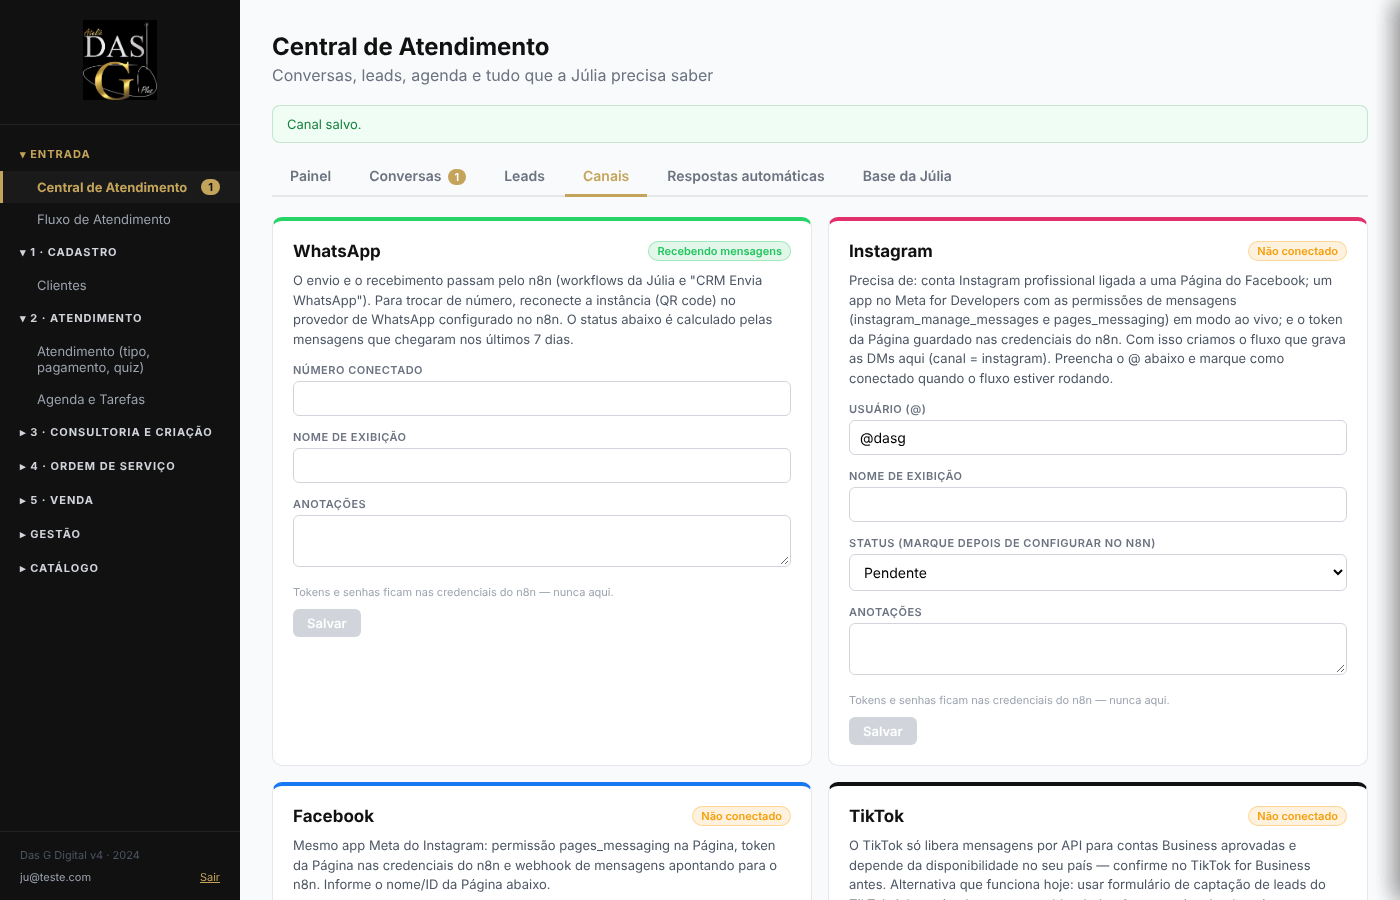
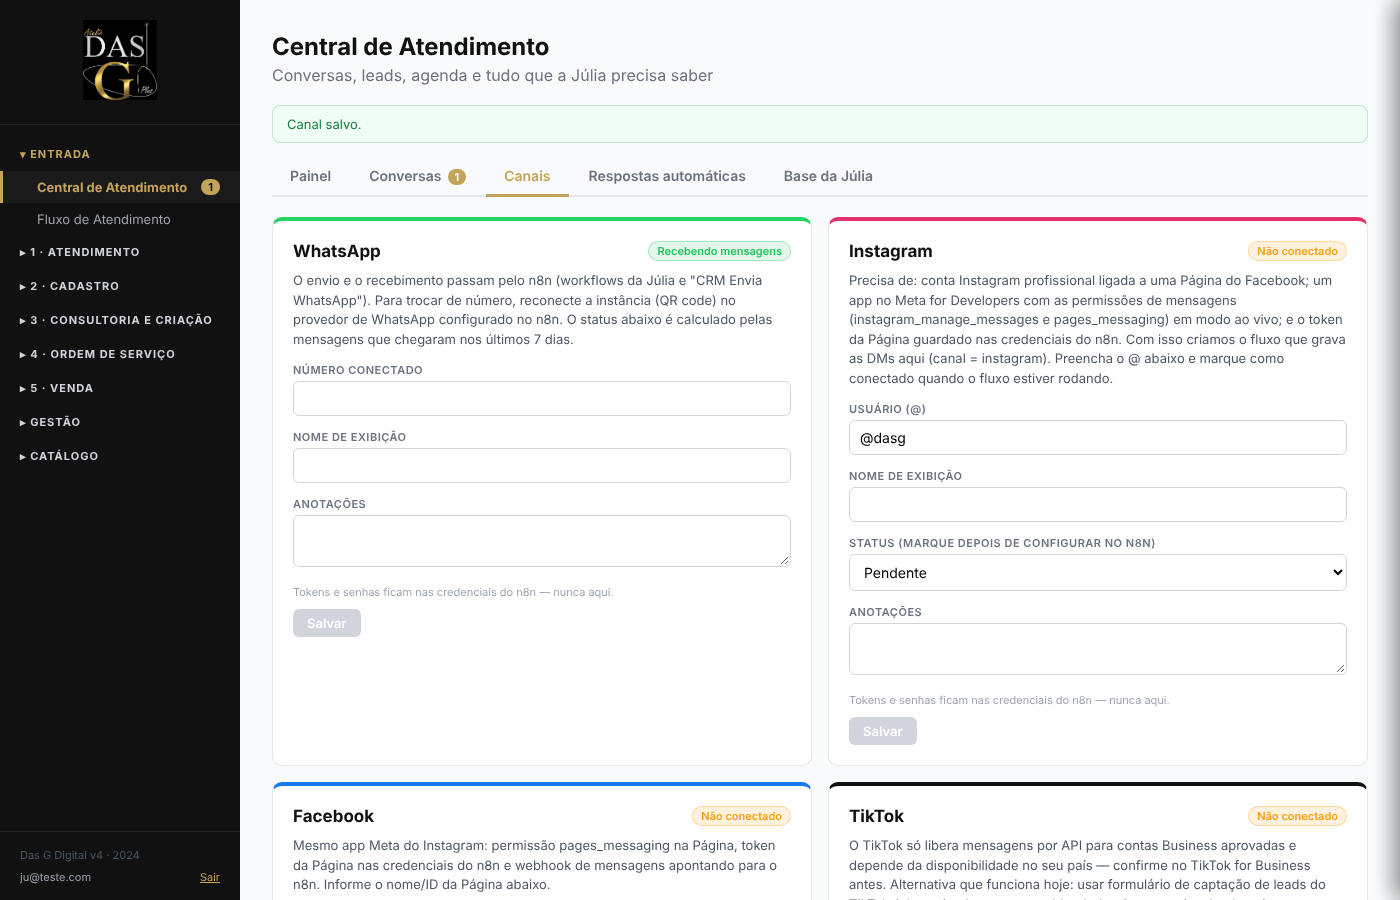
Remove Leads da Central; Atendimento antes de Cadastro; salvar cliente e abrir atendimento/OS/venda; busca de cadastro
Claude-Session: https://claude.ai/code/session_01FxfKeRtaChjsf2CxAMQed3

Changed region(s): [[0.0, 0.28, 0.1536, 0.56], [0.3379, 0.1867, 0.6757, 0.2178], [0.0307, 0.5911, 0.0614, 0.6533]]

diff --git a/src/modulos/Clientes.jsx b/src/modulos/Clientes.jsx
@@ -21,7 +21,7 @@ function msgErro(error) {
   return error.message || String(error);
 }
 
-export default function Clientes({ clientes, os, quizEnvios = [], agenda = [], produtos = [], onRecarregar, onSalvar, onIrFluxo, onNavegar, onAbrirOS }) {
+export default function Clientes({ clientes, os, quizEnvios = [], agenda = [], produtos = [], onRecarregar, onSalvar, onIrFluxo, onNavegar, onAbrirOS, onAbrirCom }) {
   const [vendaTick, setVendaTick] = useState(0);
   const [quizAberto, setQuizAberto] = useState(null);
   const [checklistAberto, setChecklistAberto] = useState(null);
@@ -33,7 +33,6 @@ export default function Clientes({ clientes, os, quizEnvios = [], agenda = [], p
 
   const [novoAberto, setNovoAberto] = useState(false);
   const [novo, setNovo] = useState(FORM_VAZIO);
-  const [abrirOSJunto, setAbrirOSJunto] = useState(true);
   const [novaOS, setNovaOS] = useState(OS_VAZIA);
   const [salvando, setSalvando] = useState(false);
   const [erro, setErro] = useState('');
@@ -47,14 +46,15 @@ export default function Clientes({ clientes, os, quizEnvios = [], agenda = [], p
   const abrirFicha = (c) => { setSel(c); setForm({ ...c }); setEditando(false); setAba('dados'); setErro(''); setAviso(''); setMostrarFormOS(false); };
   const fecharFicha = () => { setSel(null); setErro(''); setAviso(''); };
 
-  async function salvarNovo() {
+  // destino: 'so' (só salvar) | 'atendimento' | 'os' | 'venda'
+  async function salvarNovo(destino = 'so') {
     if (!novo.nome.trim()) { setErro('Informe o nome da cliente.'); return; }
     setSalvando(true); setErro('');
     const { data: cliente, error } = await criarCliente({ ...novo, nome: novo.nome.trim() });
     if (error) { setSalvando(false); setErro(msgErro(error)); return; }
     let osCriada = null;
-    if (abrirOSJunto) {
-      const r = await criarOS({ cliente, listaOS: os, ...novaOS });
+    if (destino === 'os') {
+      const r = await criarOS({ cliente, listaOS: os, ...novaOS, etapaInicial: novaOS.etapaInicial || 'os' });
       if (r.error) {
         setSalvando(false);
         await onRecarregar();
@@ -66,7 +66,10 @@ export default function Clientes({ clientes, os, quizEnvios = [], agenda = [], p
     await onRecarregar();
     setSalvando(false);
     setNovoAberto(false); setNovo(FORM_VAZIO); setNovaOS(OS_VAZIA);
-    if (osCriada && onIrFluxo) onIrFluxo();
+    if (destino === 'os' && osCriada) onAbrirOS?.(osCriada.id);
+    else if (destino === 'atendimento') onAbrirCom?.('atendimento', cliente.id);
+    else if (destino === 'venda') onAbrirCom?.('pedidosvenda', cliente.id);
+    else setAviso(`${cliente.nome} cadastrada.`);
   }
 
   async function abrirOSDaCliente() {
@@ -98,7 +101,7 @@ export default function Clientes({ clientes, os, quizEnvios = [], agenda = [], p
           <h1 style={{ fontSize: 24, fontWeight: 700 }}>Clientes</h1>
           <p style={{ color: '#6b7280', marginTop: 4 }}>{clientes.length} clientes cadastradas</p>
         </div>
-        <BtnPrimary onClick={() => { setNovo(FORM_VAZIO); setNovaOS(OS_VAZIA); setAbrirOSJunto(true); setErro(''); setNovoAberto(true); }}>Nova cliente</BtnPrimary>
+        <BtnPrimary onClick={() => { setNovo(FORM_VAZIO); setNovaOS(OS_VAZIA); setErro(''); setNovoAberto(true); }}>Nova cliente</BtnPrimary>
       </div>
 
       <div style={{ marginBottom: 16 }}>
@@ -141,18 +144,19 @@ export default function Clientes({ clientes, os, quizEnvios = [], agenda = [], p
         <Campo label="Como chegou até nós" value={novo.origem} onChange={v => setNovo(p => ({ ...p, origem: v }))} options={OPCOES_ORIGEM} />
         <Campo label="Observações" value={novo.obs} onChange={v => setNovo(p => ({ ...p, obs: v }))} type="textarea" />
 
-        <label style={{ display: 'flex', gap: 8, alignItems: 'center', margin: '8px 0 14px', fontWeight: 600, fontSize: 14, cursor: 'pointer' }}>
-          <input type="checkbox" checked={abrirOSJunto} onChange={e => setAbrirOSJunto(e.target.checked)} /> Abrir ordem de serviço agora
-        </label>
-        {abrirOSJunto && (
+        <div style={{ margin: '8px 0 8px', fontWeight: 600, fontSize: 14 }}>Se for abrir uma OS, preencha (opcional):</div>
+        {(
           <Card style={{ background: '#fef9f0', marginBottom: 16 }}>
             <Campo label="O que ela procura" value={novaOS.descricao} onChange={v => setNovaOS(p => ({ ...p, descricao: v }))} placeholder="Ex.: vestido de madrinha, azul petróleo" />
             <Campo label="Data do evento" value={novaOS.data_evento} onChange={v => setNovaOS(p => ({ ...p, data_evento: v }))} type="date" />
             <Campo label="Etapa inicial no fluxo" value={novaOS.etapaInicial} onChange={v => setNovaOS(p => ({ ...p, etapaInicial: v }))} options={ETAPAS_INICIAIS} ajuda="A OS entra no Fluxo de Atendimento nesta etapa e já cria a tarefa correspondente." />
           </Card>
         )}
-        <div style={{ display: 'flex', gap: 10 }}>
-          <BtnPrimary onClick={salvarNovo} disabled={salvando}>{salvando ? 'Salvando...' : abrirOSJunto ? 'Cadastrar e abrir OS' : 'Cadastrar cliente'}</BtnPrimary>
+        <div style={{ display: 'flex', gap: 8, flexWrap: 'wrap' }}>
+          <BtnPrimary onClick={() => salvarNovo('so')} disabled={salvando}>{salvando ? 'Salvando...' : 'Salvar'}</BtnPrimary>
+          <BtnSecondary onClick={() => salvarNovo('atendimento')} disabled={salvando}>Salvar e abrir atendimento</BtnSecondary>
+          <BtnSecondary onClick={() => salvarNovo('os')} disabled={salvando}>Salvar e abrir OS</BtnSecondary>
+          <BtnSecondary onClick={() => salvarNovo('venda')} disabled={salvando}>Salvar e abrir venda</BtnSecondary>
           <BtnSecondary onClick={() => setNovoAberto(false)}>Cancelar</BtnSecondary>
         </div>
       </Drawer>

diff --git a/src/DasGCRMv4.jsx b/src/DasGCRMv4.jsx
@@ -1306,6 +1306,8 @@ export default function DasGCRM() {
   const [pagina, setPagina] = useState('central');
   const [osFocoId, setOsFocoId] = useState('');
   const abrirOS = (id) => { setOsFocoId(id); setPagina('os'); };
+  const [foco, setFoco] = useState({ clienteId: '', tick: 0 });
+  const abrirCom = (pagina, clienteId) => { setFoco(f => ({ clienteId, tick: f.tick + 1 })); setPagina(pagina); };
   const [gruposAbertos, setGruposAbertos] = useState({ 'Entrada': true, '1 · Cadastro': true, '2 · Atendimento': true });
   const [clientes, setClientes] = useState([]);
   const [os, setOs] = useState([]);
@@ -1566,8 +1568,8 @@ export default function DasGCRM() {
   ];
   const GRUPOS = [
     { titulo: 'Entrada', ids: ['central', 'fluxo'] },
-    { titulo: '1 · Cadastro', ids: ['clientes'] },
-    { titulo: '2 · Atendimento', ids: ['atendimento', 'agenda'] },
+    { titulo: '1 · Atendimento', ids: ['atendimento', 'agenda'] },
+    { titulo: '2 · Cadastro', ids: ['clientes'] },
     { titulo: '3 · Consultoria e Criação', ids: ['consultoria', 'criacao'] },
     { titulo: '4 · Ordem de Serviço', ids: ['os', 'provas', 'compras'] },
     { titulo: '5 · Venda', ids: ['orcamentos', 'pedidosvenda'] },
@@ -1589,13 +1591,13 @@ export default function DasGCRM() {
       case 'dashboard': return <Dashboard clientes={clientes} os={os} agenda={agendaDashboard} tarefas={tarefas} pedidos={pedidos} contasPagar={contasPagar} />;
       case 'agenda': return <AgendaTarefas agenda={agenda} tarefas={tarefas} clientes={clientes} os={os} onRecarregar={recarregar} />;
       case 'fluxo': return <FluxoAtendimento os={os} clientes={clientes} onAvancar={avancarOS} onVoltar={voltarOS} />;
-      case 'clientes': return <Clientes clientes={clientes} os={os} quizEnvios={quizEnvios} agenda={agenda} onRecarregar={recarregar} onSalvar={salvarCliente} onIrFluxo={() => setPagina('fluxo')} onNavegar={setPagina} onAbrirOS={abrirOS} produtos={produtos} />;
+      case 'clientes': return <Clientes clientes={clientes} os={os} quizEnvios={quizEnvios} agenda={agenda} onRecarregar={recarregar} onSalvar={salvarCliente} onIrFluxo={() => setPagina('fluxo')} onNavegar={setPagina} onAbrirOS={abrirOS} onAbrirCom={abrirCom} produtos={produtos} />;
       case 'consultoria': return <Consultoria clientes={clientes} os={os} quizEnvios={quizEnvios} onRecarregar={recarregar} onNavegar={setPagina} />;
       case 'criacao': return <CriacaoOS os={os} clientes={clientes} quizEnvios={quizEnvios} onRecarregar={recarregar} onNavegar={setPagina} />;
       case 'orcamentos': return <OrcamentosOS os={os} clientes={clientes} onRecarregar={recarregar} />;
-      case 'atendimento': return <Atendimento clientes={clientes} os={os} agenda={agenda} tarefas={tarefas} quizEnvios={quizEnvios} onRecarregar={recarregar} onNavegar={setPagina} />;
+      case 'atendimento': return <Atendimento clienteFocoId={foco.clienteId} focoTick={foco.tick} clientes={clientes} os={os} agenda={agenda} tarefas={tarefas} quizEnvios={quizEnvios} onRecarregar={recarregar} onNavegar={setPagina} />;
       case 'os': return <OrdemServico os={os} clientes={clientes} osFocoId={osFocoId} onRecarregar={recarregar} onNavegar={setPagina} />;
-      case 'pedidosvenda': return <PedidosVenda clientes={clientes} os={os} produtos={produtos} onRecarregar={recarregar} />;
+      case 'pedidosvenda': return <PedidosVenda clientes={clientes} os={os} produtos={produtos} clienteNovoId={foco.clienteId} abrirTick={foco.tick} onRecarregar={recarregar} />;
       case 'processos': return <Processos os={os} clientes={clientes} onAbrirCliente={(o) => abrirOS(o.id)} />;
       case 'provas': return <ProvasOS os={os} clientes={clientes} onRecarregar={recarregar} />;
       case 'financeiro': return <Financeiro pedidos={pedidos} clientes={clientes} os={os} contasPagar={contasPagar} />;

diff --git a/src/modulos/PedidosVenda.jsx b/src/modulos/PedidosVenda.jsx
@@ -1,6 +1,6 @@
 import { useCallback, useEffect, useState } from 'react';
 import { supabase } from '../lib/supabaseClient.js';
-import { Badge, Card, BtnPrimary, BtnSecondary, BtnDanger, Aviso, fmtDate, erroDeSchema } from './ui.jsx';
+import { Badge, Card, BtnPrimary, BtnSecondary, BtnDanger, SeletorCliente, Aviso, fmtDate, erroDeSchema } from './ui.jsx';
 
 // Pedidos de venda da loja: sutiã, cinta, locação de roupa/sapato/acessório, flores. Sempre ligados à ficha da cliente.
 export const TIPOS_ITEM = { peca_pronta: 'Peça pronta', sutia: 'Sutiã', cinta: 'Cinta', locacao_roupa: 'Locação de roupa', sapato: 'Sapato', acessorio: 'Acessório', flores: 'Flores', outro: 'Outro' };
@@ -10,7 +10,7 @@ const msgErro = (e) => erroDeSchema(e) ? 'Falta aplicar a migração 20261104000
 const totalItens = (its) => its.reduce((s, i) => s + Number(i.quantidade || 0) * Number(i.valor_unit || 0), 0);
 
 // clienteId fixo = usado dentro da ficha da cliente; sem clienteId = tela geral
-export default function PedidosVenda({ clientes, os, clienteId, produtos = [], abrirTick = 0, onRecarregar }) {
+export default function PedidosVenda({ clientes, os, clienteId, clienteNovoId = '', produtos = [], abrirTick = 0, onRecarregar }) {
   const [pedidos, setPedidos] = useState([]);
   const [itens, setItens] = useState({});
   const [novo, setNovo] = useState(null);
@@ -32,7 +32,7 @@ export default function PedidosVenda({ clientes, os, clienteId, produtos = [], a
   useEffect(() => { carregar(); }, [carregar]);
 
   const ITEM_VAZIO = { tipo: 'peca_pronta', modalidade: 'venda', produto_id: '', descricao: '', quantidade: 1, valor_unit: '', retirada: '', devolucao: '' };
-  const abrir = () => setNovo({ cliente_id: clienteId || '', ordem_servico_id: '', forma_pagamento: '', entrega_em: '', desconto: 0, observacoes: '', itens: [{ ...ITEM_VAZIO }] });
+  const abrir = () => setNovo({ cliente_id: clienteId || clienteNovoId || '', ordem_servico_id: '', forma_pagamento: '', entrega_em: '', desconto: 0, observacoes: '', itens: [{ ...ITEM_VAZIO }] });
   useEffect(() => { if (abrirTick > 0) abrir(); }, [abrirTick]); // eslint-disable-line react-hooks/exhaustive-deps
   const escolherProduto = (i, id) => {
     const pr = produtos.find(x => x.id === id);
@@ -78,7 +78,7 @@ export default function PedidosVenda({ clientes, os, clienteId, produtos = [], a
         <Card style={{ marginBottom: 16, background: '#fffdf7' }}>
           <h3 style={{ fontWeight: 700, marginBottom: 10 }}>Novo pedido de venda</h3>
           <div style={{ display: 'grid', gridTemplateColumns: '1fr 1fr 1fr', gap: 10, marginBottom: 12 }}>
-            {!clienteId && <select value={novo.cliente_id} onChange={e => setNovo(n => ({ ...n, cliente_id: e.target.value, ordem_servico_id: '' }))} style={inp}><option value="">Cliente...</option>{clientes.map(c => <option key={c.id} value={c.id}>{c.nome}</option>)}</select>}
+            {!clienteId && <SeletorCliente clientes={clientes} value={novo.cliente_id} onChange={v => setNovo(n => ({ ...n, cliente_id: v, ordem_servico_id: '' }))} />}
             <select value={novo.ordem_servico_id} onChange={e => setNovo(n => ({ ...n, ordem_servico_id: e.target.value }))} style={inp}><option value="">Sem OS vinculada</option>{osDaCliente(novo.cliente_id).map(o => <option key={o.id} value={o.id}>{o.numero}</option>)}</select>
             <input placeholder="Forma de pagamento" value={novo.forma_pagamento} onChange={e => setNovo(n => ({ ...n, forma_pagamento: e.target.value }))} style={inp} />
             <label style={{ fontSize: 11, color: '#6b7280' }}>Entrega / retirada em<input type="date" value={novo.entrega_em} onChange={e => setNovo(n => ({ ...n, entrega_em: e.target.value }))} style={inp} /></label>

diff --git a/src/modulos/Atendimento.jsx b/src/modulos/Atendimento.jsx
@@ -1,11 +1,11 @@
-import { useMemo, useState } from 'react';
+import { useEffect, useMemo, useState } from 'react';
 import { supabase } from '../lib/supabaseClient.js';
 import { criarOS, enviarQuizPorWhatsApp, ROTULO_ETAPA } from '../lib/api.js';
 import { linkDoQuiz } from './quizConsultoria.js';
 import { BriefingQuiz } from './Consultoria.jsx';
 import ChecklistAtendimento, { statusChecklist } from './ChecklistAtendimento.jsx';
 import { TIPOS_ATENDIMENTO, tipoDaOS } from './tiposAtendimento.js';
-import { Badge, Card, BtnPrimary, BtnSecondary, TabBar, Campo, Aviso, fmtDateTime, erroDeSchema } from './ui.jsx';
+import { Badge, Card, BtnPrimary, BtnSecondary, TabBar, Campo, SeletorCliente, Aviso, fmtDateTime, erroDeSchema } from './ui.jsx';
 
 // 2º passo do fluxo: Atendimento. Define o tipo (Estilista Express, Consultoria Express ou Atendimento),
 // dispara o link de pagamento, o quiz (quando o tipo pede), a confirmação e a videoconferência.
@@ -13,7 +13,7 @@ const msgErro = (e) => erroDeSchema(e) ? 'Falta aplicar a migração 20261105000
 const OPCOES_TIPO = Object.entries(TIPOS_ATENDIMENTO).map(([value, t]) => ({ value, label: t.label }));
 const STATUS_QUIZ = { criado: ['Link criado', '#6b7280'], enviado: ['Enviado, aguardando', '#f59e0b'], respondido: ['Respondido', '#16a34a'] };
 
-export default function Atendimento({ clientes, os, agenda, tarefas = [], quizEnvios, onRecarregar, onNavegar }) {
+export default function Atendimento({ clientes, os, agenda, tarefas = [], quizEnvios, clienteFocoId = '', focoTick = 0, onRecarregar, onNavegar }) {
   const [aba, setAba] = useState('atendimentos');
   const [aberta, setAberta] = useState(null);
   const [filtroQuiz, setFiltroQuiz] = useState('todos');
@@ -23,6 +23,7 @@ export default function Atendimento({ clientes, os, agenda, tarefas = [], quizEn
   const [aviso, setAviso] = useState('');
   const [ocupado, setOcupado] = useState('');
 
+  useEffect(() => { if (focoTick > 0 && clienteFocoId) { setAba('atendimentos'); setNovo({ cliente_id: clienteFocoId, tipo: 'consultoria_express', descricao: '' }); } }, [focoTick]); // eslint-disable-line react-hooks/exhaustive-deps
   const cli = (id) => clientes.find(c => c.id === id);
   const emAtendimento = useMemo(() => os.filter(o => o.status_idx <= 8).sort((a, b) => new Date(b.criado_em || 0) - new Date(a.criado_em || 0)), [os]);
 
@@ -64,7 +65,7 @@ export default function Atendimento({ clientes, os, agenda, tarefas = [], quizEn
           <div style={{ marginBottom: 14 }}>{!novo ? <BtnPrimary onClick={() => setNovo({ cliente_id: '', tipo: 'consultoria_express', descricao: '' })}>+ Novo atendimento</BtnPrimary> : (
             <Card style={{ background: '#fffdf7' }}>
               <div style={{ display: 'grid', gridTemplateColumns: '1fr 1fr', gap: 12 }}>
-                <Campo label="Cliente" value={novo.cliente_id} onChange={v => setNovo(n => ({ ...n, cliente_id: v }))} options={clientes.map(c => ({ value: c.id, label: c.nome }))} ajuda="Cliente ainda não cadastrada? Cadastre primeiro em Clientes." />
+                <SeletorCliente clientes={clientes} value={novo.cliente_id} onChange={v => setNovo(n => ({ ...n, cliente_id: v }))} onCadastrar={() => onNavegar?.('clientes')} />
                 <Campo label="Tipo de atendimento" value={novo.tipo} onChange={v => setNovo(n => ({ ...n, tipo: v }))} options={OPCOES_TIPO} />
               </div>
               <Campo label="Do que se trata (opcional)" value={novo.descricao} onChange={v => setNovo(n => ({ ...n, descricao: v }))} />

diff --git a/src/modulos/ui.jsx b/src/modulos/ui.jsx
@@ -1,6 +1,6 @@
 // Primitivos visuais compartilhados pelos módulos novos (Central, Agenda, Clientes, Consultoria).
 // Mesma aparência do DasGCRMv4.jsx; cópia deliberada pra não acoplar com o monólito.
-import { useEffect } from 'react';
+import { useEffect, useState } from 'react';
 
 export const fmtDate = (d) => d ? new Date(d.length === 10 ? d + 'T12:00:00' : d).toLocaleDateString('pt-BR') : '—';
 export const fmtDateTime = (d) => d ? new Date(d).toLocaleString('pt-BR', { dateStyle: 'short', timeStyle: 'short' }) : '—';
@@ -85,4 +85,25 @@ export function Aviso({ tipo = 'info', children }) {
 export function erroDeSchema(error) {
   if (!error) return false;
   return ['42P01', '42703', 'PGRST204', 'PGRST205'].includes(error.code) || /does not exist|schema cache/i.test(error.message || '');
+}
+
+// Busca de cliente por nome/telefone + lista filtrada. Usado em Atendimento, Pedidos de Venda etc.
+export function SeletorCliente({ clientes, value, onChange, label = 'Cliente', onCadastrar }) {
+  const [q, setQ] = useState('');
+  const t = q.trim().toLowerCase();
+  const digitos = t.replace(/\D/g, '');
+  const achadas = clientes.filter(c => !t || (c.nome || '').toLowerCase().includes(t) || (digitos && (c.telefone || '').replace(/\D/g, '').includes(digitos)) || (c.email || '').toLowerCase().includes(t));
+  const lista = value && !achadas.some(c => c.id === value) ? [clientes.find(c => c.id === value), ...achadas].filter(Boolean) : achadas;
+  const st = { width: '100%', padding: '8px 10px', border: '1px solid #d1d5db', borderRadius: 6, fontSize: 14, boxSizing: 'border-box', fontFamily: 'inherit', background: '#fff' };
+  return (
+    <div style={{ marginBottom: 14 }}>
+      <label style={{ display: 'block', fontSize: 11, fontWeight: 600, color: '#6b7280', marginBottom: 4, textTransform: 'uppercase', letterSpacing: 0.5 }}>{label}</label>
+      <input value={q} onChange={e => setQ(e.target.value)} placeholder="Buscar cadastro por nome, telefone ou e-mail..." style={{ ...st, marginBottom: 6 }} />
+      <select value={value || ''} onChange={e => onChange(e.target.value)} style={st}>
+        <option value="">{achadas.length ? `Selecionar (${achadas.length} encontrada${achadas.length > 1 ? 's' : ''})...` : 'Nenhum cadastro encontrado'}</option>
+        {lista.map(c => <option key={c.id} value={c.id}>{c.nome}{c.telefone ? ' · ' + c.telefone : ''}</option>)}
+      </select>
+      {onCadastrar && achadas.length === 0 && <div style={{ fontSize: 12, marginTop: 6 }}>Não achou? <button type="button" onClick={onCadastrar} style={{ border: 'none', background: 'none', color: '#c4a45a', fontWeight: 600, cursor: 'pointer', textDecoration: 'underline', padding: 0 }}>Cadastrar nova cliente</button></div>}
+    </div>
+  );
 }

diff --git a/src/modulos/Central.jsx b/src/modulos/Central.jsx
@@ -222,7 +222,7 @@ export default function Central({ conversas, leads, agenda, tarefas, clientes, o
       {erro && <Aviso tipo="erro">{erro} <button onClick={() => setErro('')} style={{ marginLeft: 8, border: 'none', background: 'none', cursor: 'pointer', color: 'inherit', textDecoration: 'underline' }}>fechar</button></Aviso>}
 
       <TabBar active={aba} onChange={setAba} tabs={[
-        { id: 'painel', label: 'Painel' }, { id: 'conversas', label: 'Conversas', count: naoLidasTotal }, { id: 'leads', label: 'Leads', count: leadsNovos.length },
+        { id: 'painel', label: 'Painel' }, { id: 'conversas', label: 'Conversas', count: naoLidasTotal },
         { id: 'canais', label: 'Canais' }, { id: 'respostas', label: 'Respostas automáticas' }, { id: 'base', label: 'Base da Júlia' },
       ]} />
 
@@ -231,7 +231,6 @@ export default function Central({ conversas, leads, agenda, tarefas, clientes, o
         <div>
           <div style={{ display: 'grid', gridTemplateColumns: 'repeat(auto-fit, minmax(170px, 1fr))', gap: 14, marginBottom: 24 }}>
             {atalhosCard(naoLidasTotal, 'Conversas aguardando você', '#f59e0b', () => { setAba('conversas'); setFiltro('sem_resposta'); })}
-            {atalhosCard(leadsNovos.length, 'Leads novos', '#6366f1', () => setAba('leads'))}
             {atalhosCard(eventosHoje.length, 'Compromissos hoje', '#c4a45a', () => onNavegar?.('agenda'))}
             {atalhosCard(aguardandoConfirmacao.length, 'Aguardando confirmação', '#3b82f6', () => onNavegar?.('agenda'))}
             {atalhosCard(pendentes.length, `Tarefas pendentes${atrasadas.length ? ` (${atrasadas.length} atrasadas)` : ''}`, atrasadas.length ? '#ef4444' : '#16a34a', () => onNavegar?.('agenda'))}
@@ -267,16 +266,6 @@ export default function Central({ conversas, leads, agenda, tarefas, clientes, o
                     {t.titulo} <span style={{ color: atrasadas.includes(t) ? '#dc2626' : '#9ca3af' }}>· {fmtDate(t.prazo)}</span>
                   </div>
                 )), 'Nenhuma tarefa pendente.')}
-              </div>
-            </Card>
-            <Card>
-              <h3 style={{ fontSize: 15, marginBottom: 12 }}>Leads novos</h3>
-              <div style={{ display: 'flex', flexDirection: 'column', gap: 8 }}>
-                {lista(leadsNovos.slice(0, 6).map(l => (
-                  <div key={l.id} style={{ padding: '8px 10px', background: '#f9fafb', borderRadius: 6, fontSize: 13 }}>
-                    <b>{l.nome}</b> <span style={{ color: '#9ca3af' }}>· {l.ocasiao || l.procura || l.origem || 'sem detalhes'}</span>
-                  </div>
-                )), 'Nenhum lead novo.')}
               </div>
             </Card>
           </div>
